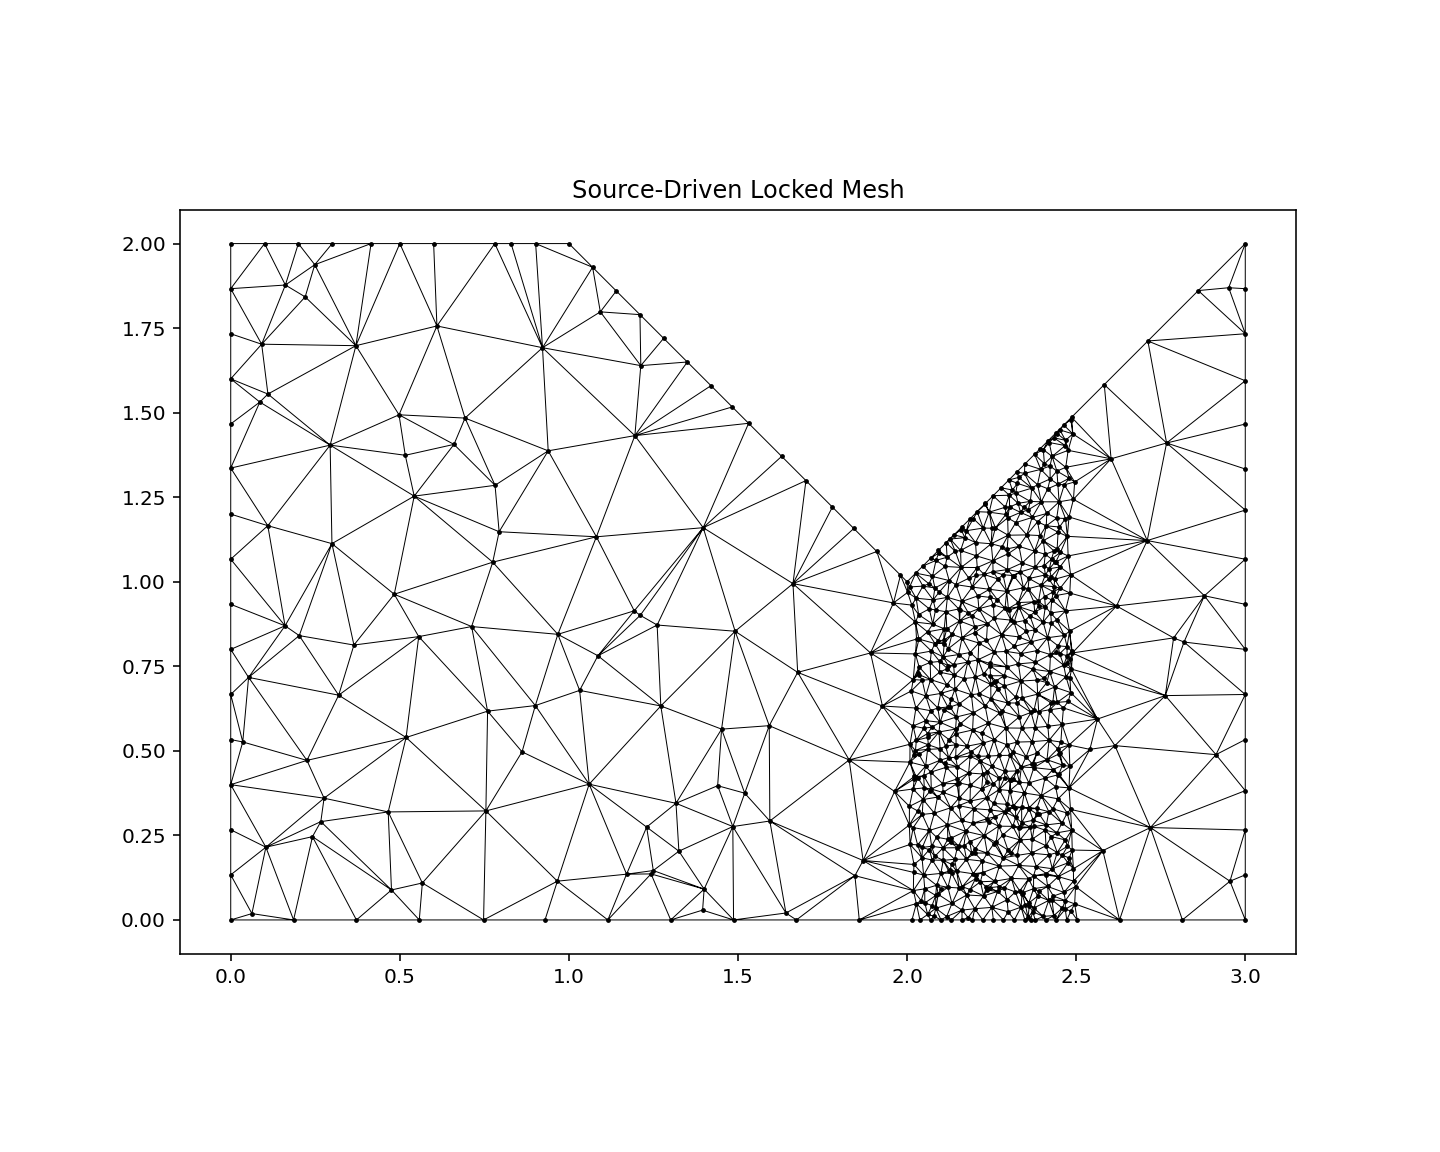
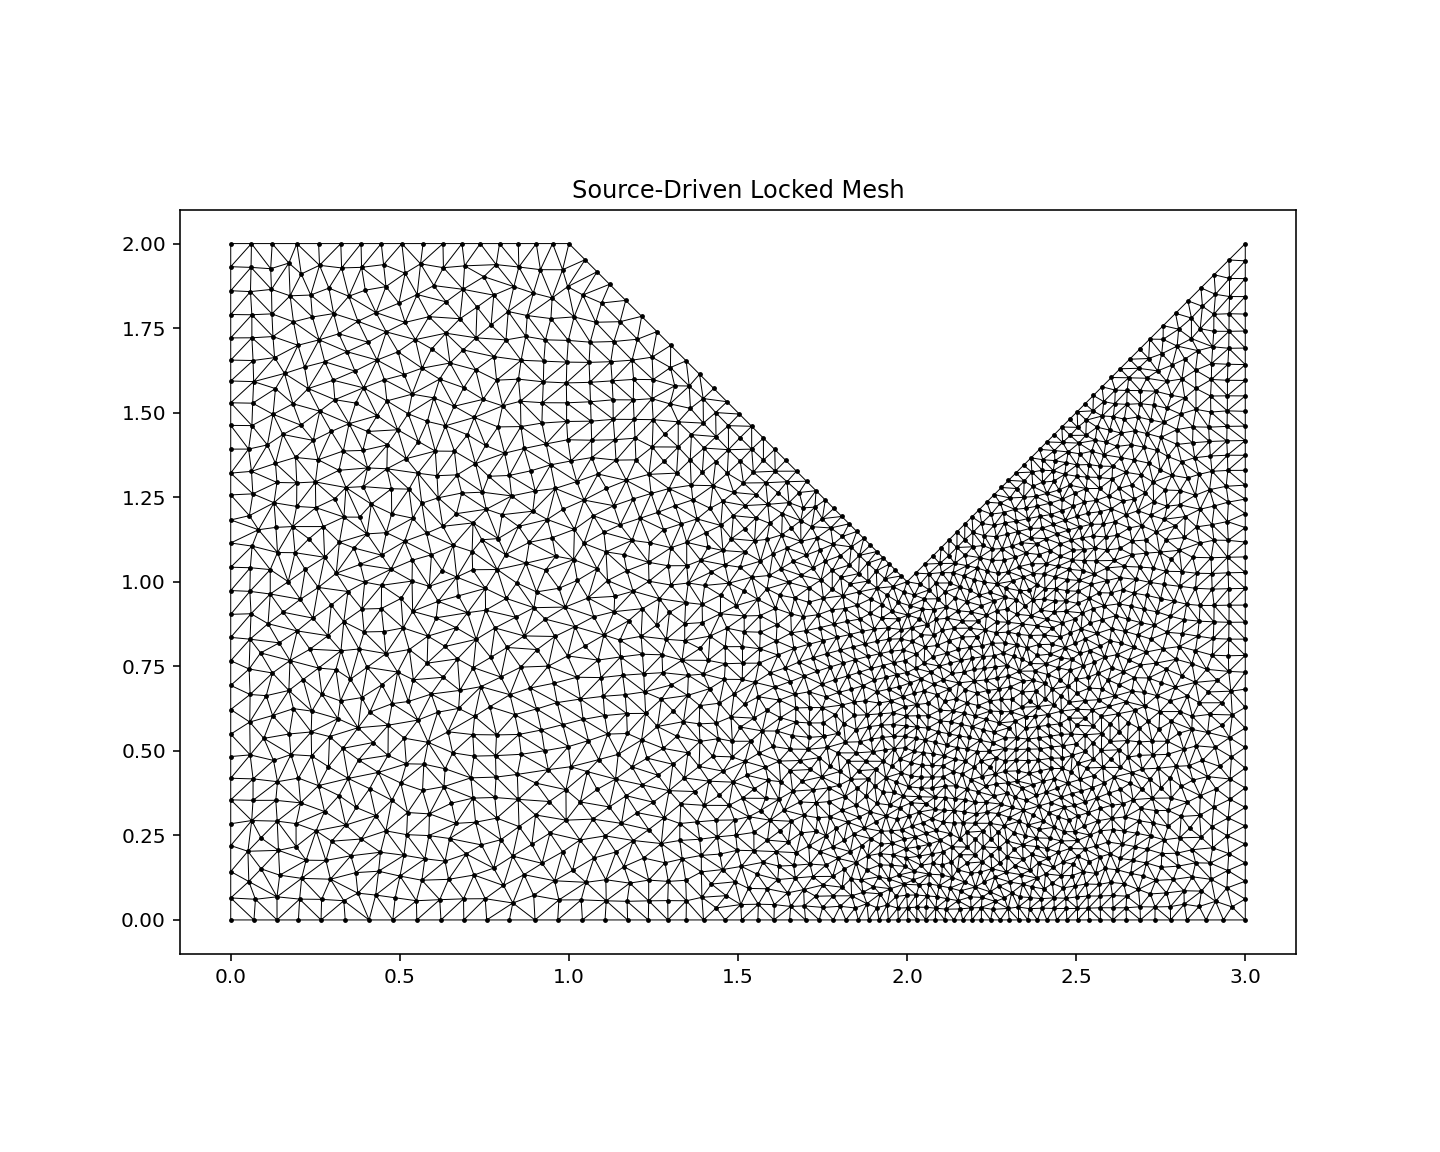
Working Mesh Tool With Smoothed High Density Regions

Changed region(s): [[0.1562, 0.2188, 0.875, 0.8125]]

diff --git a/mesh/distance.py b/mesh/distance.py
@@ -1,56 +1,101 @@
 ''' mesh/distance.py '''
 import numpy as np
 
+def get_closest_point_on_segment(px, py, x1, y1, x2, y2):
+    """
+    Vectorized kernel to find the closest point on segment P1-P2 for point P.
+    
+    Args:
+        px, py: Coordinates of point P (N, 1) or (N, M)
+        x1, y1: Coordinates of start node P1 (1, M)
+        x2, y2: Coordinates of end node P2 (1, M)
+        
+    Returns:
+        cx, cy: Coordinates of the closest point on the segment
+    """
+    # Vector from StartNode to Point (P - P1)
+    dx = px - x1
+    dy = py - y1
+    
+    # Vector of the Segment (P2 - P1)
+    vx = x2 - x1
+    vy = y2 - y1
+    
+    # Squared length of the segment
+    len_sq = vx**2 + vy**2
+    
+    # Avoid division by zero for zero-length segments
+    len_sq = np.where(len_sq == 0, 1.0, len_sq)
+    
+    # Project vector 'd' onto vector 'v'
+    # t = (d . v) / (v . v)
+    t = (dx * vx + dy * vy) / len_sq
+    
+    # Clamp t to the segment [0, 1]
+    t = np.clip(t, 0.0, 1.0)
+    
+    # Calculate closest point
+    cx = x1 + t * vx
+    cy = y1 + t * vy
+    
+    return cx, cy
+
 def project_points_to_specific_faces(points, face_indices, nodes, faces):
     """
     Projects points[i] strictly to faces[face_indices[i]].
+    This prevents corner-rounding and drifting by locking nodes to specific topology.
     """
+    # 1. Gather Face Data for each point
     relevant_faces = faces[face_indices]
+    
     idx_n1 = relevant_faces['n1'] - 1
     idx_n2 = relevant_faces['n2'] - 1
     
-    x1, y1 = nodes['x'][idx_n1], nodes['y'][idx_n1]
-    x2, y2 = nodes['x'][idx_n2], nodes['y'][idx_n2]
+    x1 = nodes['x'][idx_n1]
+    y1 = nodes['y'][idx_n1]
+    x2 = nodes['x'][idx_n2]
+    y2 = nodes['y'][idx_n2]
     
+    # 2. Vectorized Projection
     px, py = points[:, 0], points[:, 1]
     
-    # Vector P1 -> P
-    dx, dy = px - x1, py - y1
-    # Vector P1 -> P2 (Wall)
-    vx, vy = x2 - x1, y2 - y1
+    # Vector from StartNode to Point
+    dx = px - x1
+    dy = py - y1
     
+    # Vector of the Wall Segment
+    vx = x2 - x1
+    vy = y2 - y1
+    
+    # Project: t = (v . d) / (v . v)
     v_sq = vx**2 + vy**2
     v_dot_d = vx*dx + vy*dy
     
-    t = v_dot_d / np.maximum(v_sq, 1e-12)
-    t = np.clip(t, 0.0, 1.0) # HARD STOP at corners
+    # Avoid div/0
+    v_sq = np.maximum(v_sq, 1e-12)
     
+    t = v_dot_d / v_sq
+    
+    # 3. Clamp t to [0, 1] - Hard Stop at corners
+    t = np.clip(t, 0.0, 1.0)
+    
+    # 4. Calculate new position
     nearest_x = x1 + t * vx
     nearest_y = y1 + t * vy
     
     return np.column_stack((nearest_x, nearest_y))
 
-
-
 def project_points_to_boundary(points, nodes, faces):
     """
-    Finds the nearest boundary point for a list of query points.
-    
-    Args:
-        points: (N, 2) array of (x, y) coordinates
-        nodes:  Structured array of NODE_DTYPE
-        faces:  Structured array of FACE_DTYPE
-        
-    Returns:
-        distances: (N,) array of distances to the boundary
-        nearest_points: (N, 2) array of (x,y) on the boundary
+    Finds the closest point on ANY boundary face for a list of points.
+    Used for "leaker" checks (points that escaped the domain).
     """
-    # 1. Prepare Data for Broadcasting
-    #    Query Points: Shape (N, 1)
+    # 1. Prepare Data
+    # Points: Shape (N, 1) for broadcasting
     px = points[:, 0][:, np.newaxis]
     py = points[:, 1][:, np.newaxis]
     
-    #    Faces: Map to Node Coords -> Shape (1, M)
+    # Faces: Shape (1, M) for broadcasting
     idx_n1 = faces['n1'] - 1
     idx_n2 = faces['n2'] - 1
     
@@ -66,19 +111,19 @@ def project_points_to_boundary(points, nodes, faces):
     # 3. Calculate Distances Squared (N, M)
     dx = px - cx_all
     dy = py - cy_all
-    dist_sq_all = dx**2 + dy**2
+    dists_sq = dx**2 + dy**2
     
-    # 4. Find Minimum Distance (The "True" Closest Face)
-    #    We find the index of the face with min distance for each point
-    min_indices = np.argmin(dist_sq_all, axis=1)
+    # 4. Find the Minimum Distance Index for each point
+    min_indices = np.argmin(dists_sq, axis=1)
     
-    # 5. Extract the winning coordinates
-    #    We use fancy indexing to pull the specific (cx, cy) that won.
+    # 5. Extract the coordinates corresponding to the minimum distance
+    #    We use numpy's advanced indexing: range(N) selects the row, min_indices selects the col
     row_indices = np.arange(len(points))
     
-    nearest_x = cx_all[row_indices, min_indices]
-    nearest_y = cy_all[row_indices, min_indices]
+    best_x = cx_all[row_indices, min_indices]
+    best_y = cy_all[row_indices, min_indices]
     
-    distances = np.sqrt(dist_sq_all[row_indices, min_indices])
+    closest_points = np.column_stack((best_x, best_y))
+    min_dists = np.sqrt(dists_sq[row_indices, min_indices])
     
-    return distances, np.column_stack((nearest_x, nearest_y))
+    return min_dists, closest_points

diff --git a/mesh/smoothing.py b/mesh/smoothing.py
@@ -1,5 +1,6 @@
 ''' mesh/smoothing.py '''
 import numpy as np
+from scipy.spatial import Delaunay
 from .distance import project_points_to_specific_faces, project_points_to_boundary
 from .containment import check_points_inside
 
@@ -8,26 +9,58 @@ def get_unique_edges(simplices):
     edges.sort(axis=1)
     return np.unique(edges, axis=0)
 
-def smooth_mesh(points, simplices, nodes, faces, n_sliding, sliding_face_indices, sizing_func, dt=0.2, niters=50):
+def smooth_mesh(points, nodes, faces, n_sliding, sliding_face_indices, sizing_func, niters=80):
+    """
+    Now performs Dynamic Re-Triangulation!
+    Note: We removed 'simplices' from arguments because we calculate them internally.
+    """
     n_fixed = len(nodes)
     slide_start = n_fixed
     slide_end   = n_fixed + n_sliding
     
+    # Parameters for stability
+    dt = 0.2
+    
+    # We don't need to triangulate EVERY step (expensive). 
+    # Doing it every 10 steps is usually enough to let points migrate.
+    retriangulate_interval = 5 
+    
+    current_simplices = None
+    
     for itr in range(niters):
-        edges = get_unique_edges(simplices)
+        
+        # --- 1. DYNAMIC RE-TRIANGULATION ---
+        # If the points have moved, the old connections are stale. Rebuild them.
+        if itr % retriangulate_interval == 0:
+            tri = Delaunay(points)
+            simplices = tri.simplices
+            
+            # We MUST filter out the triangles inside the concave notch/void
+            # otherwise springs will pull nodes across the empty space.
+            centroids = np.mean(points[simplices], axis=1)
+            mask = check_points_inside(centroids, nodes, faces)
+            current_simplices = simplices[mask]
+            
+        # --- 2. CALCULATE FORCES ---
+        edges = get_unique_edges(current_simplices)
         idx1, idx2 = edges[:, 0], edges[:, 1]
         p1, p2 = points[idx1], points[idx2]
         
-        # Spring Forces
+        # Desired Length (average of both ends)
         midpoints = (p1 + p2) / 2.0
         L_target = sizing_func(midpoints)
         
+        # Current Length
         diff = p1 - p2
         dists = np.sqrt(np.sum(diff**2, axis=1))
         dists = np.maximum(dists, 1e-10)
         
+        # Spring Force: F = L_current - L_target
+        # (If L_current > L_target, pull them closer)
         F_mag = dists - L_target
-        F_mag = np.where(F_mag > 0, F_mag, 0) # Only contract if too long
+        
+        # We allow push AND pull now to let the lattice relax fully
+        # (Previously we only allowed contraction, but expansion helps quality too)
         
         v = diff / dists[:, None]
         force = v * F_mag[:, None]
@@ -37,24 +70,27 @@ def smooth_mesh(points, simplices, nodes, faces, n_sliding, sliding_face_indices
         np.add.at(total_force, idx2,  move)
         np.add.at(total_force, idx1, -move)
         
+        # --- 3. MOVE POINTS ---
         points[n_fixed:] += total_force[n_fixed:] * dt
         
-        # 1. LOCKED BOUNDARY
+        # --- 4. APPLY CONSTRAINTS ---
+        
+        # A. Locked Boundary Nodes
         if n_sliding > 0:
             sliders = points[slide_start : slide_end]
             snapped = project_points_to_specific_faces(sliders, sliding_face_indices, nodes, faces)
             points[slide_start : slide_end] = snapped
             
-        # 2. LEAK CHECK (Inner nodes)
-        inner_points = points[slide_end:]
-        is_inside = check_points_inside(inner_points, nodes, faces)
-        outside_mask = ~is_inside
-        
-        if np.any(outside_mask):
-            # Only import/call this if you implemented the global search
-            from .distance import project_points_to_boundary 
-            leakers = inner_points[outside_mask]
-            _, snapped = project_points_to_boundary(leakers, nodes, faces)
-            points[slide_end:][outside_mask] = snapped
+        # B. Inner Node Containment (The "Leaker" Check)
+        # Only check this occasionally to save time, or every step if unstable
+        if itr % 1 == 0:
+            inner_points = points[slide_end:]
+            is_inside = check_points_inside(inner_points, nodes, faces)
+            outside_mask = ~is_inside
+            
+            if np.any(outside_mask):
+                leakers = inner_points[outside_mask]
+                _, snapped = project_points_to_boundary(leakers, nodes, faces)
+                points[slide_end:][outside_mask] = snapped
 
     return points

diff --git a/mesh/sizing.py b/mesh/sizing.py
@@ -5,39 +5,51 @@ class SizingField:
     def __init__(self, sources_array):
         self.sources = sources_array
         
-        # Find global background h (Type 0)
+        # 1. Background H
         globals = self.sources[self.sources['type'] == 0]
         if len(globals) > 0:
             self.h_background = globals[0]['h']
         else:
-            self.h_background = 1.0 # Fallback
+            self.h_background = 1.0
 
     def __call__(self, points):
-        """
-        Evaluates h at a list of points (N, 2).
-        Returns (N,) array of sizes.
-        """
+        """ Evaluates h at points (N, 2). Returns (N,) """
         n_points = len(points)
+        
+        # Start with the global background size everywhere
         h_values = np.full(n_points, self.h_background)
         
         x = points[:, 0]
         y = points[:, 1]
         
-        # Check Box Sources (Type 1)
+        # Growth Rate (Slope)
+        # 0.2 means size increases by 0.2 units for every 1.0 unit of distance.
+        # This prevents the "Cliff Edge" effect.
+        GROWTH_RATE = 0.05
+        
+        # 2. Apply Box Sources with Decay
         boxes = self.sources[self.sources['type'] == 1]
         for box in boxes:
             x1, y1, x2, y2, h_target = box['x1'], box['y1'], box['x2'], box['y2'], box['h']
             
-            # Create mask for points inside this box
-            # Allow for box defined in any order
             xmin, xmax = min(x1,x2), max(x1,x2)
             ymin, ymax = min(y1,y2), max(y1,y2)
             
-            mask_x = (x >= xmin) & (x <= xmax)
-            mask_y = (y >= ymin) & (y <= ymax)
-            mask = mask_x & mask_y
+            # --- Vectorized Distance to Box ---
+            # If inside, dx and dy are 0.
+            # If outside, they represent dist to nearest edge.
+            dx = np.maximum(0, np.maximum(xmin - x, x - xmax))
+            dy = np.maximum(0, np.maximum(ymin - y, y - ymax))
             
-            # Apply the source size. Take MINIMUM if multiple sources overlap.
-            h_values[mask] = np.minimum(h_values[mask], h_target)
+            dist = np.sqrt(dx**2 + dy**2)
+            
+            # --- Field Function ---
+            # h(d) = Target + (Slope * Distance)
+            h_box = h_target + (GROWTH_RATE * dist)
+            
+            # --- Union of Fields ---
+            # We want the mesh to be fine if *any* source demands it.
+            # So we take the Minimum of the current value and this new constraint.
+            h_values = np.minimum(h_values, h_box)
             
         return h_values

diff --git a/main.py b/main.py
@@ -37,12 +37,15 @@ if __name__ == '__main__':
     initial_cells = simplices[mask]
 
     # 4. Smooth (Solver)
-    print("Smoothing mesh...")
+    print("Smoothing mesh (with dynamic topology updates)...")
+    
+    # Note: We no longer pass 'initial_cells'
     smoothed_points = smooth_mesh(
-        points.copy(), initial_cells, 
+        points.copy(), 
         data['nodes'], data['faces'], 
         n_sliding, sliding_face_indices, 
-        sizing_field, niters=80
+        sizing_field, 
+        niters=1000
     )
 
     # 5. Final Re-Triangulation
